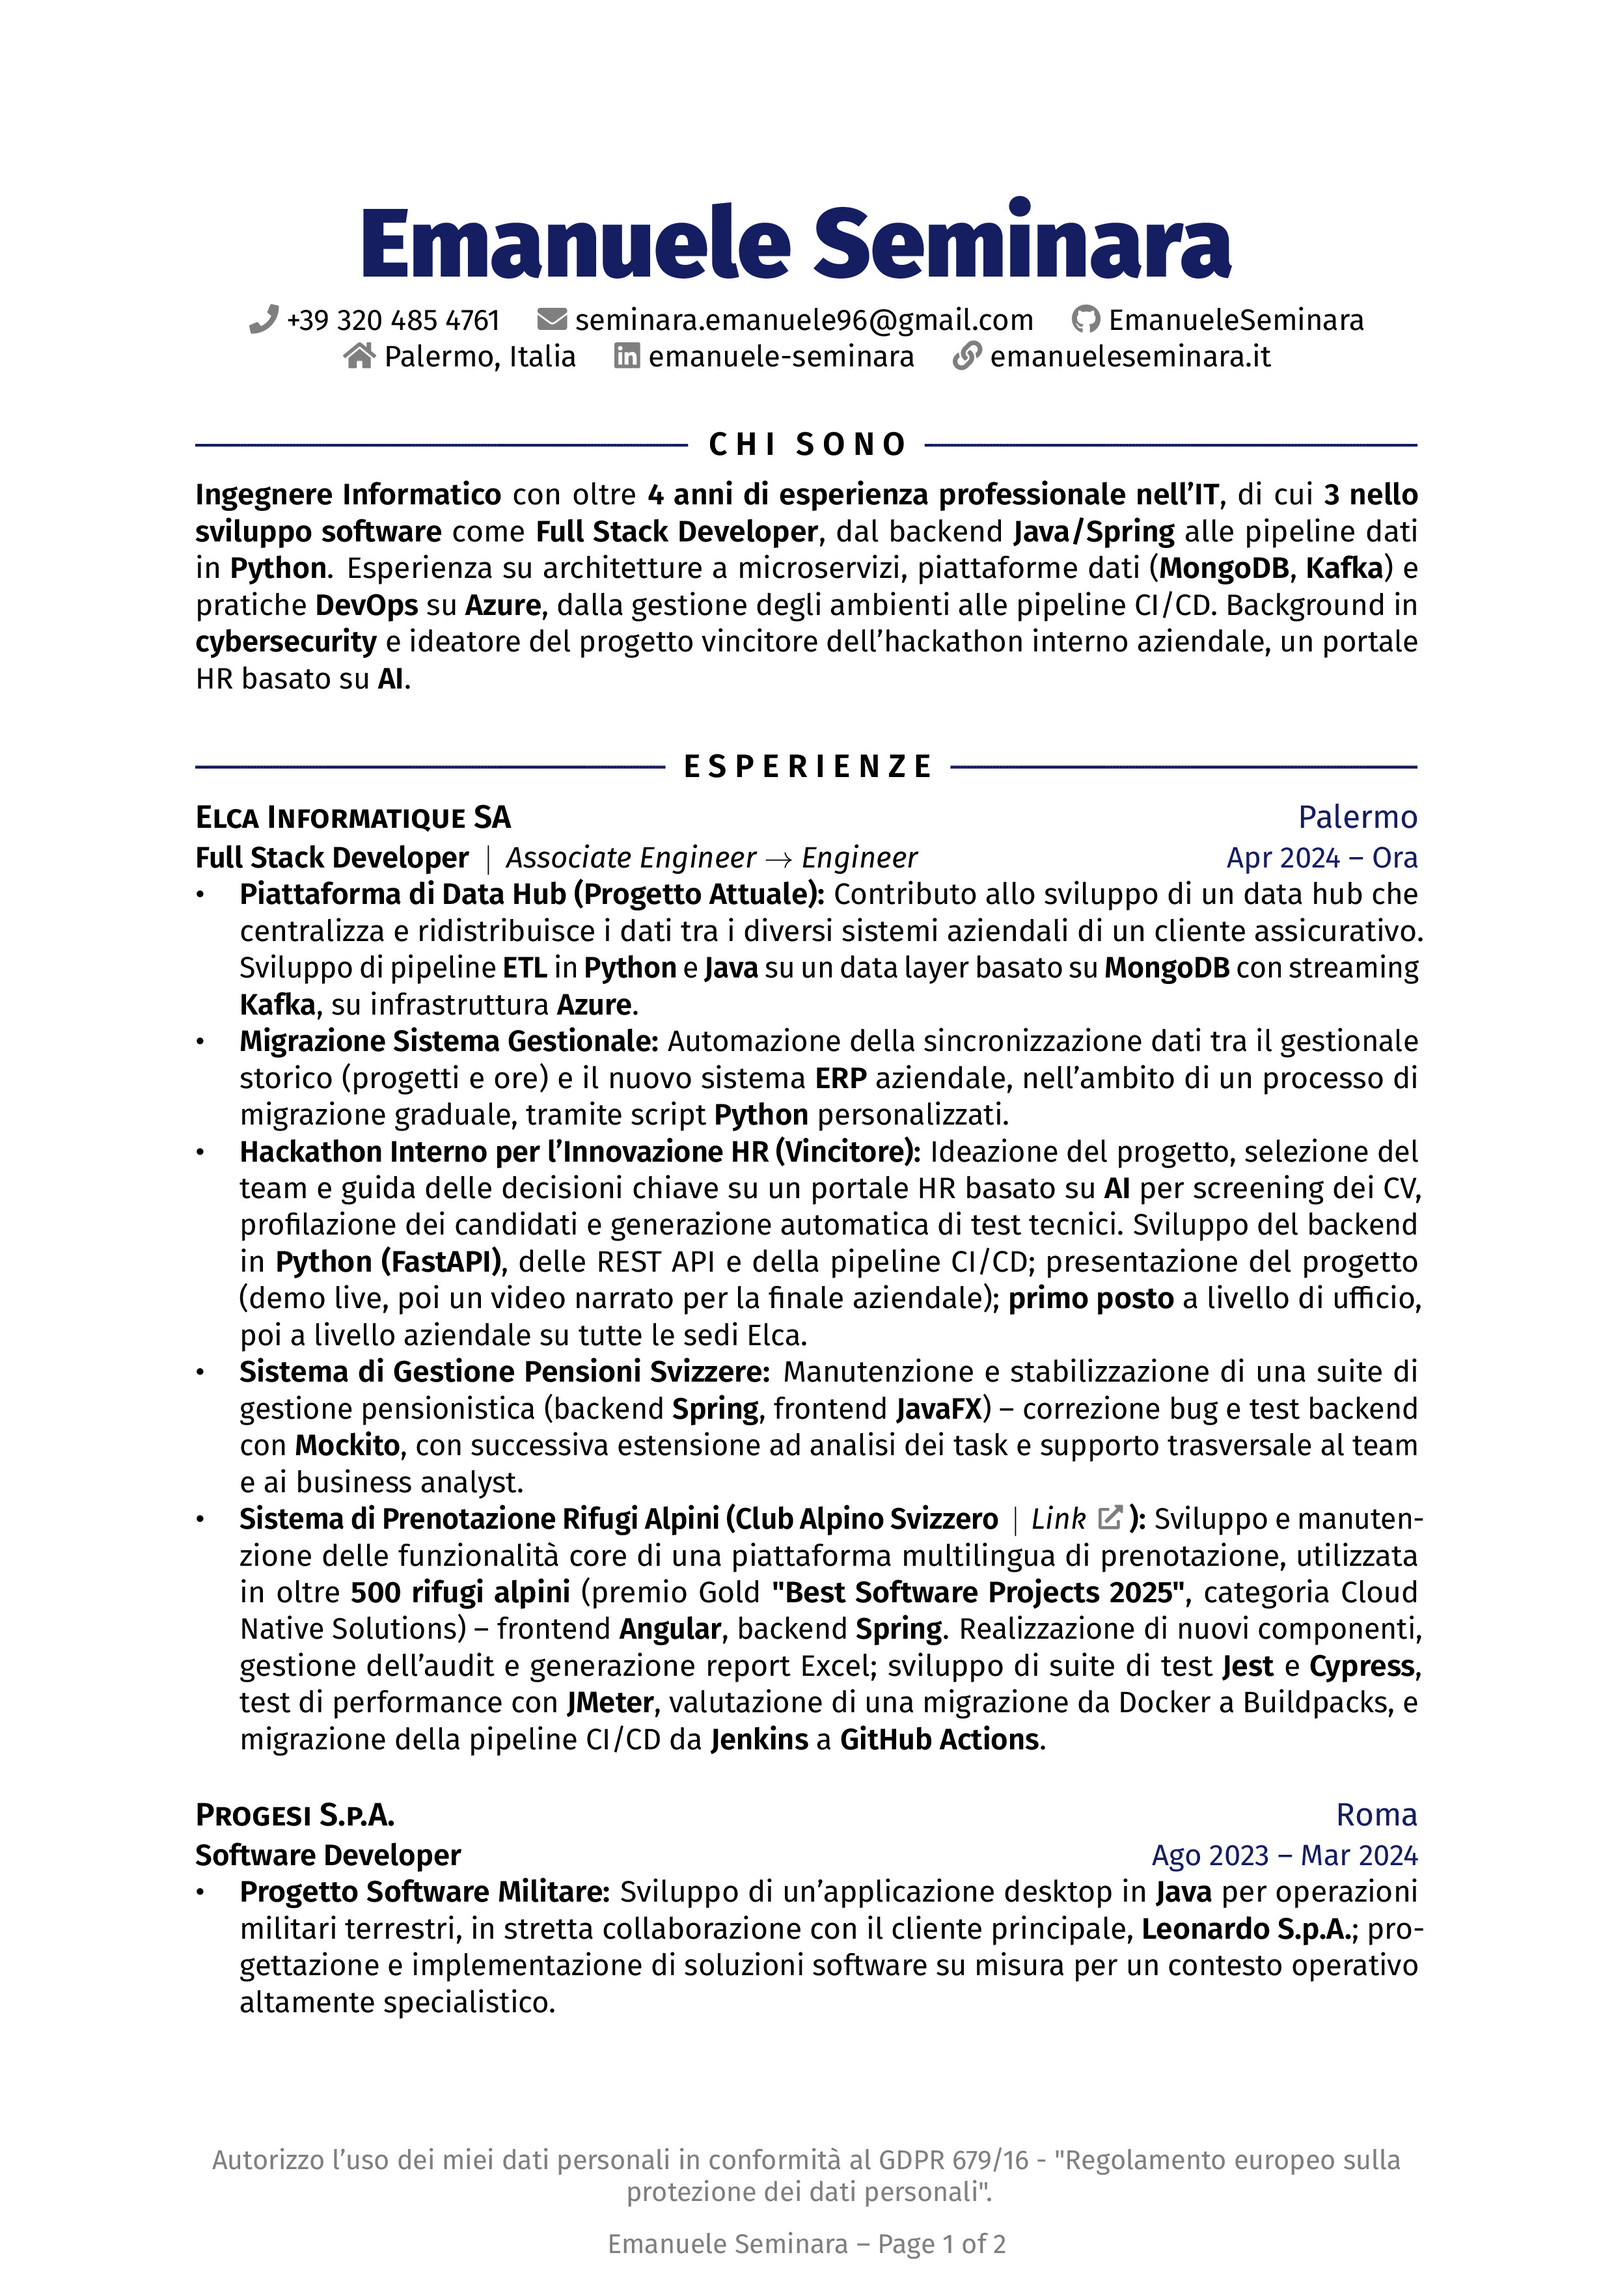
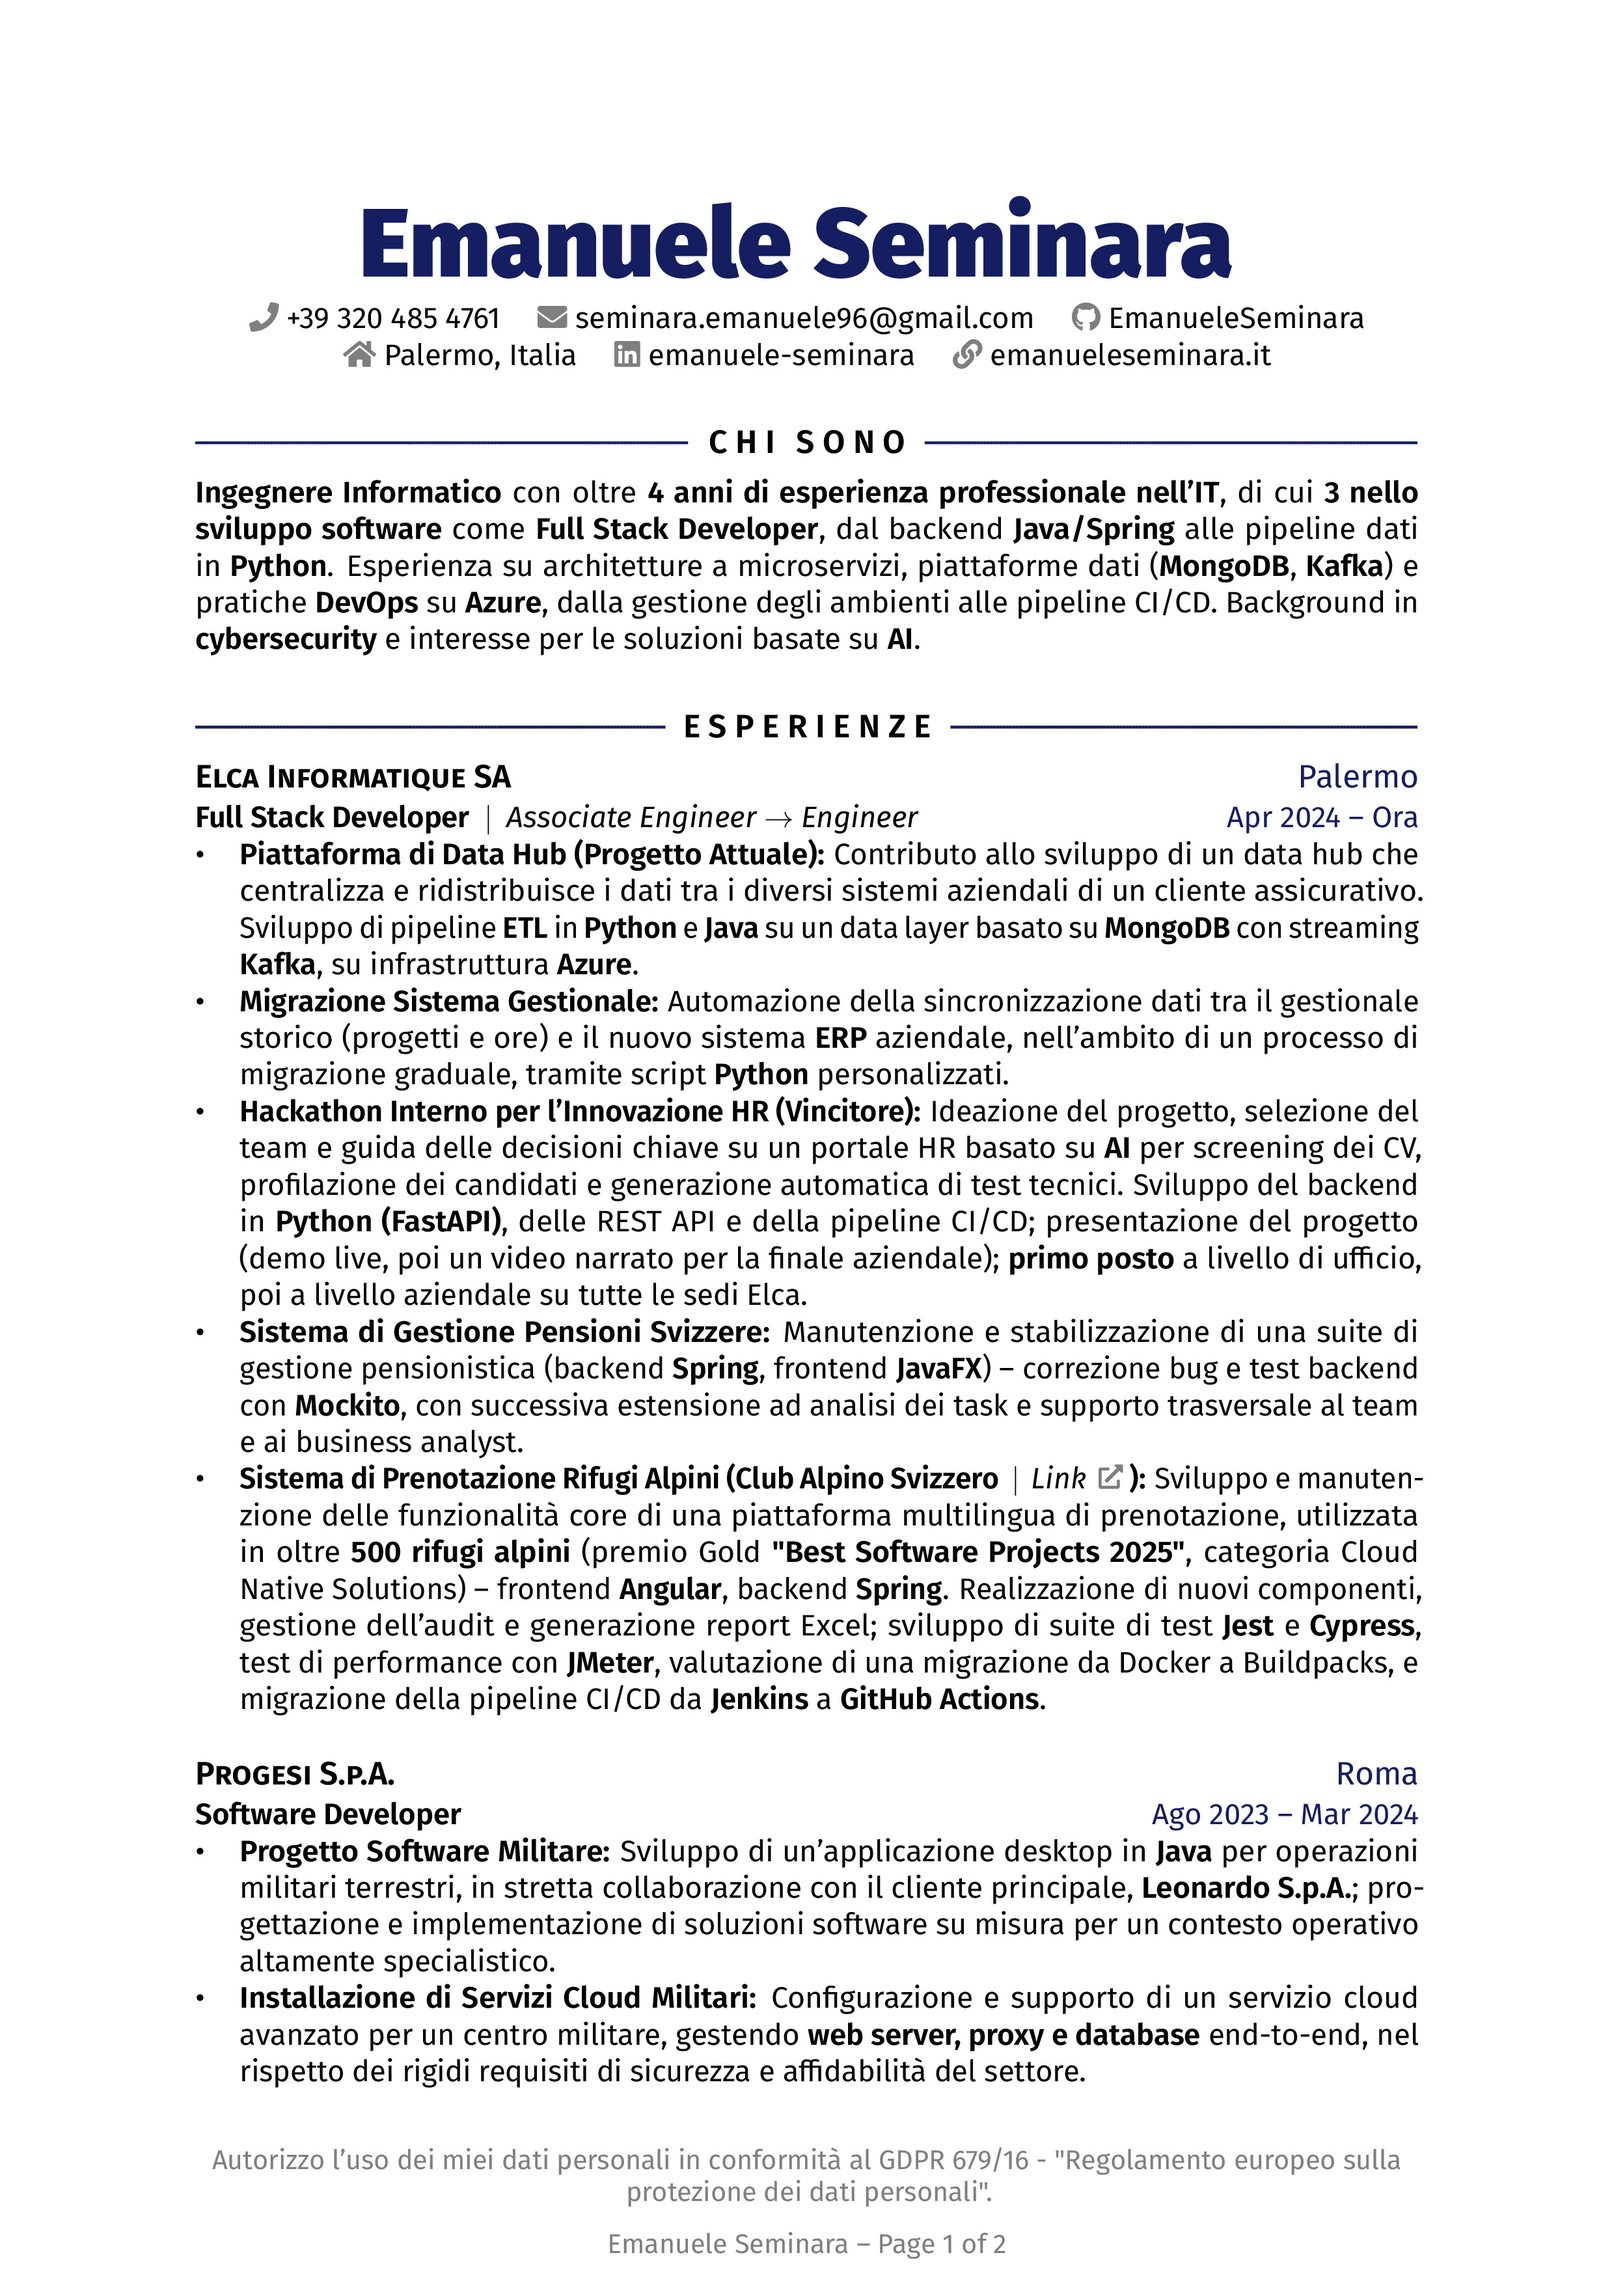
Refine About me section - v3.1

diff --git a/Emanuele_Seminara_CV_ITA.tex b/Emanuele_Seminara_CV_ITA.tex
@@ -113,7 +113,7 @@ Emanuele Seminara -- Page \thepage\ of \pageref*{LastPage}}
 
 \section{Chi sono}
 %==========
-\noindent \textbf{Ingegnere Informatico} con oltre \textbf{4 anni di esperienza professionale nell'IT}, di cui \textbf{3 nello sviluppo software} come \textbf{Full Stack Developer}, dal backend \textbf{Java/Spring} alle pipeline dati in \textbf{Python}. Esperienza su architetture a microservizi, piattaforme dati (\textbf{MongoDB}, \textbf{Kafka}) e pratiche \textbf{DevOps} su \textbf{Azure}, dalla gestione degli ambienti alle pipeline CI/CD. Background in \textbf{cybersecurity} e ideatore del progetto vincitore dell'hackathon interno aziendale, un portale HR basato su \textbf{AI}.
+\noindent \textbf{Ingegnere Informatico} con oltre \textbf{4 anni di esperienza professionale nell'IT}, di cui \textbf{3 nello sviluppo software} come \textbf{Full Stack Developer}, dal backend \textbf{Java/Spring} alle pipeline dati in \textbf{Python}. Esperienza su architetture a microservizi, piattaforme dati (\textbf{MongoDB}, \textbf{Kafka}) e pratiche \textbf{DevOps} su \textbf{Azure}, dalla gestione degli ambienti alle pipeline CI/CD. Background in \textbf{cybersecurity} e interesse per le soluzioni basate su \textbf{AI}.
 
 \section{Esperienze}
 %==========

diff --git a/README.md b/README.md
@@ -1,6 +1,6 @@
 # [![emanueleseminara.it](https://github.com/EmanueleSeminara/images/blob/main/logo_e_20x20.png?raw=true)](https://emanueleseminara.it/) Rover Resume - CV in LaTeX [![emanueleseminara.it](https://github.com/EmanueleSeminara/images/blob/main/logo_e_20x20.png?raw=true)](https://emanueleseminara.it/)
 
-v3.0 (17 Settembre 2026) di Emanuele Seminara
+v3.1 (17 Settembre 2026) di Emanuele Seminara
 
 [Per la versione inglese Clicca Qui](https://github.com/EmanueleSeminara/LaTeX_resume/tree/ENG)
 
